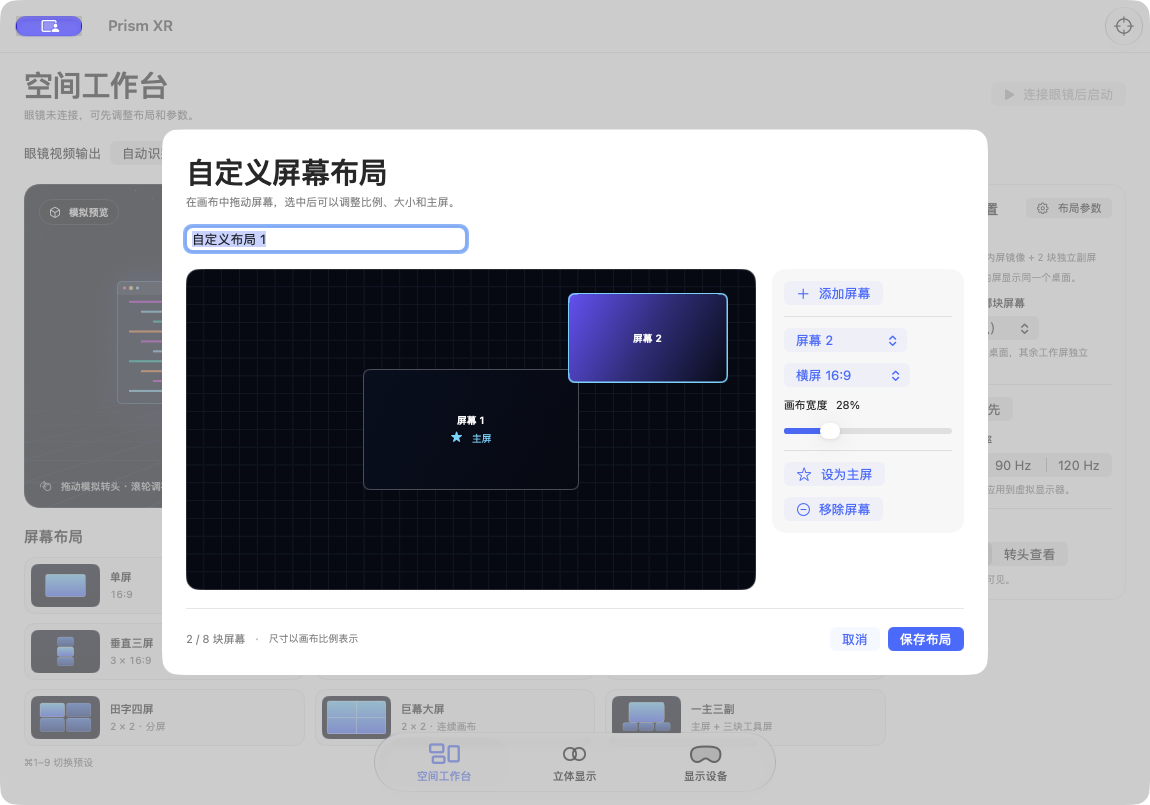
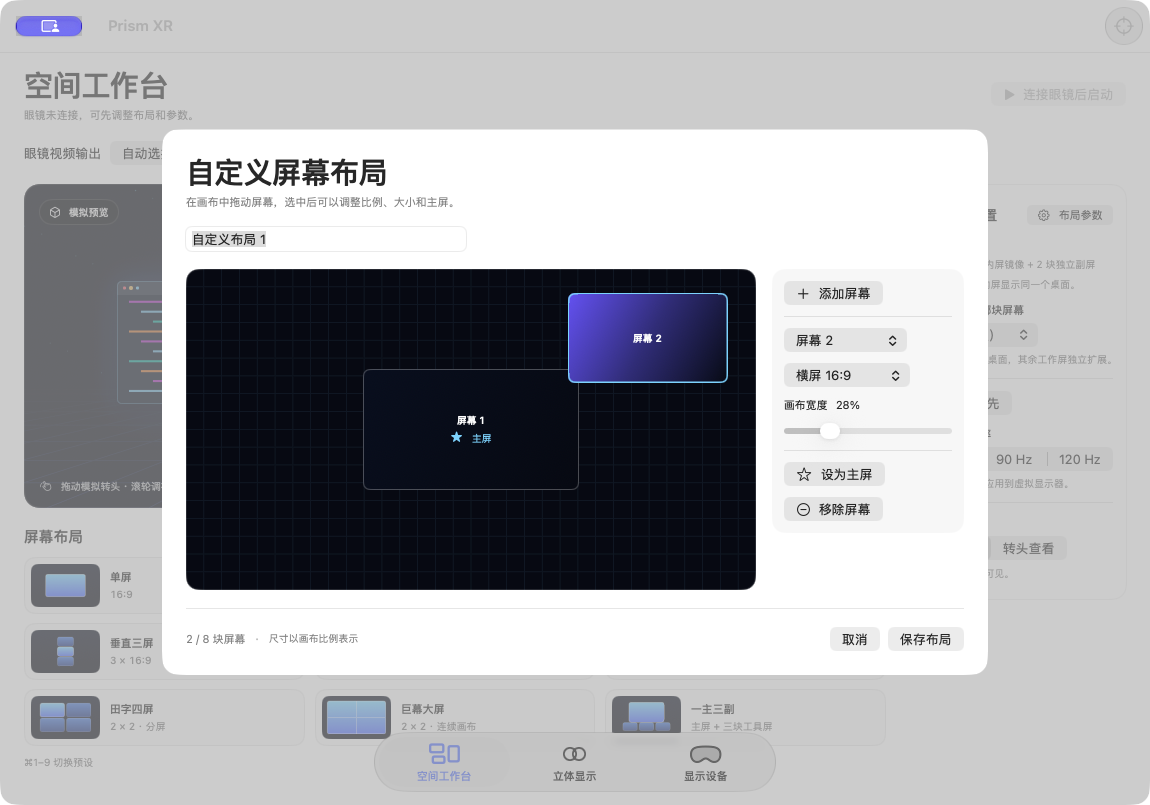
Show model name only after detection

diff --git a/Sources/DeviceView.swift b/Sources/DeviceView.swift
@@ -58,8 +58,8 @@ struct DeviceView: View {
                 }
 
                 HStack(spacing: 12) {
-                    summaryCard(title: "RayNeo GT Max", value: matchingUSB ? "发现 USB 标识" : "未发现 USB 标识",
-                                detail: "USB 3941:AF50", symbol: "eyeglasses",
+                    summaryCard(title: matchingUSB ? "RayNeo GT Max" : "眼镜 USB", value: matchingUSB ? "发现 USB 标识" : "未发现支持的 USB 接口",
+                                detail: matchingUSB ? "USB 3941:AF50" : "连接眼镜后重新扫描", symbol: "eyeglasses",
                                 tint: matchingUSB ? .green : .orange)
                     summaryCard(title: "桌面来源", value: "\(displays.filter(\.isWorkspaceSource).count) 块",
                                 detail: "Mac 内屏和独立副屏；眼镜输出另列",

diff --git a/Sources/SpatialDesktop.swift b/Sources/SpatialDesktop.swift
@@ -29,6 +29,10 @@ final class SpatialDesktop: NSObject, SCStreamDelegate {
     private(set) var outputAvailable = false
     private(set) var outputDisplays: [OutputDisplay] = []
     private(set) var selectedOutputID: CGDirectDisplayID?
+    var automaticOutputLabel: String {
+        outputDisplays.filter(\.supportsGTMaxControls).count == 1 ? "已识别 RayNeo GT Max" : "自动选择"
+    }
+
     var supportsOutputTracking: Bool {
         outputDisplays.first(where: { $0.id == glassesDisplayID })?.supportsGTMaxControls == true
     }

diff --git a/Sources/WorkspaceView.swift b/Sources/WorkspaceView.swift
@@ -49,7 +49,7 @@ struct WorkspaceView: View {
                         get: { desktop.selectedOutputID },
                         set: { desktop.selectOutput($0) }
                     )) {
-                        Text("自动识别 GT Max").tag(nil as CGDirectDisplayID?)
+                        Text(desktop.automaticOutputLabel).tag(nil as CGDirectDisplayID?)
                         ForEach(desktop.outputDisplays) { display in
                             Text(display.name).tag(Optional(display.id))
                         }

diff --git a/README.md b/README.md
@@ -14,7 +14,7 @@ A native macOS spatial workspace for RayNeo GT-series AR glasses. Mirror the Mac
 
 ## Compatibility
 
-Apple Silicon, macOS 27 or later, and an active Mac built-in display. RayNeo GT Max was used for the hardware validation of earlier development builds. Version 1.0 was checked offline. For other GT models, future RayNeo glasses or compatible external video displays, select the output under **眼镜视频输出**. Generic output uses a fixed view or overview. Head tracking and hardware mode controls depend on the verified GT Max USB protocol. Video compatibility with other models is unverified.
+Apple Silicon, macOS 27 or later, and an active Mac built-in display. All physical glasses testing for Prism XR was performed specifically with RayNeo GT Max on earlier development builds. Version 1.0 was checked offline. For other GT models, future RayNeo glasses or compatible external video displays, select the output under **眼镜视频输出**. Generic output uses a fixed view or overview. Head tracking and hardware mode controls depend on the verified GT Max USB protocol. Video compatibility with other models is unverified.
 
 ## Getting started
 

diff --git a/README.zh-CN.md b/README.zh-CN.md
@@ -14,7 +14,7 @@
 
 ## 兼容性
 
-需要 Apple Silicon、macOS 27 或更新版本，以及可用的 Mac 内置显示器。开发版已用雷鸟 GT Max 验证视频输出、姿态采样和多屏采集。V1.0 进行了离线验证。其他 GT 型号、后续雷鸟设备或能被 Mac 识别的外接视频设备，可以手动选择「眼镜视频输出」，以一览或固定视角尝试。通用输出的实机兼容性待验证，头部追踪和机身控制依赖已验证的 GT Max USB 协议。
+需要 Apple Silicon、macOS 27 或更新版本，以及可用的 Mac 内置显示器。本项目的眼镜实机测试专门使用雷鸟 GT Max。开发版已验证该型号的视频输出、姿态采样和多屏采集。V1.0 进行了离线验证。其他 GT 型号、后续雷鸟设备或能被 Mac 识别的外接视频设备，可以手动选择「眼镜视频输出」，以一览或固定视角尝试。通用输出的实机兼容性待验证，头部追踪和机身控制依赖已验证的 GT Max USB 协议。
 
 ## 使用
 
